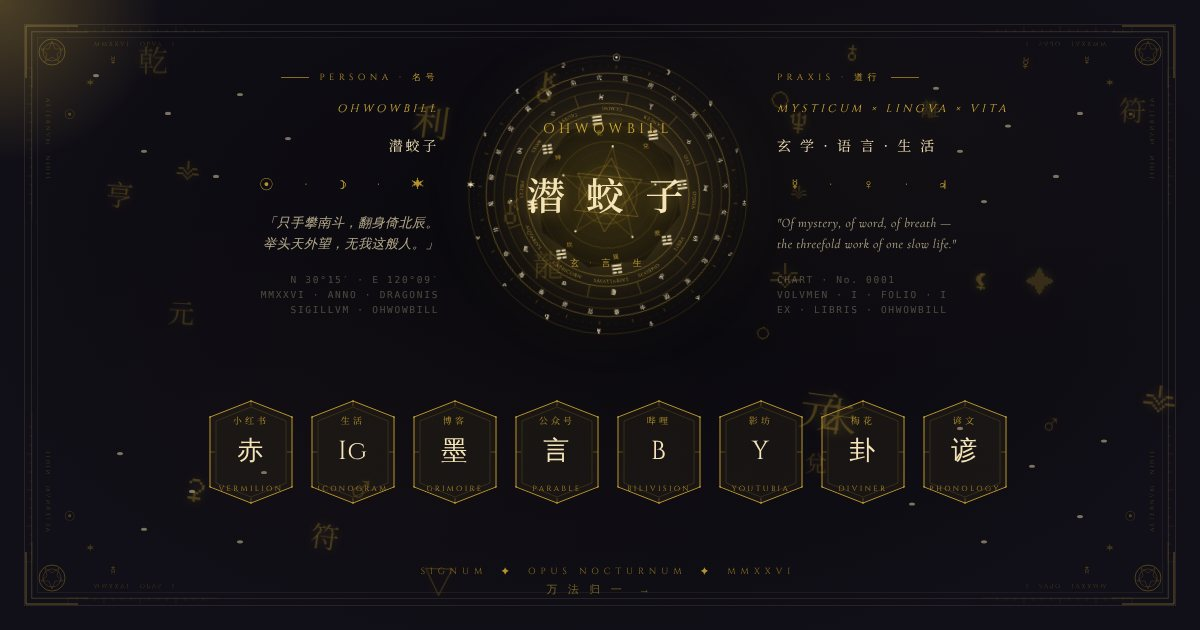
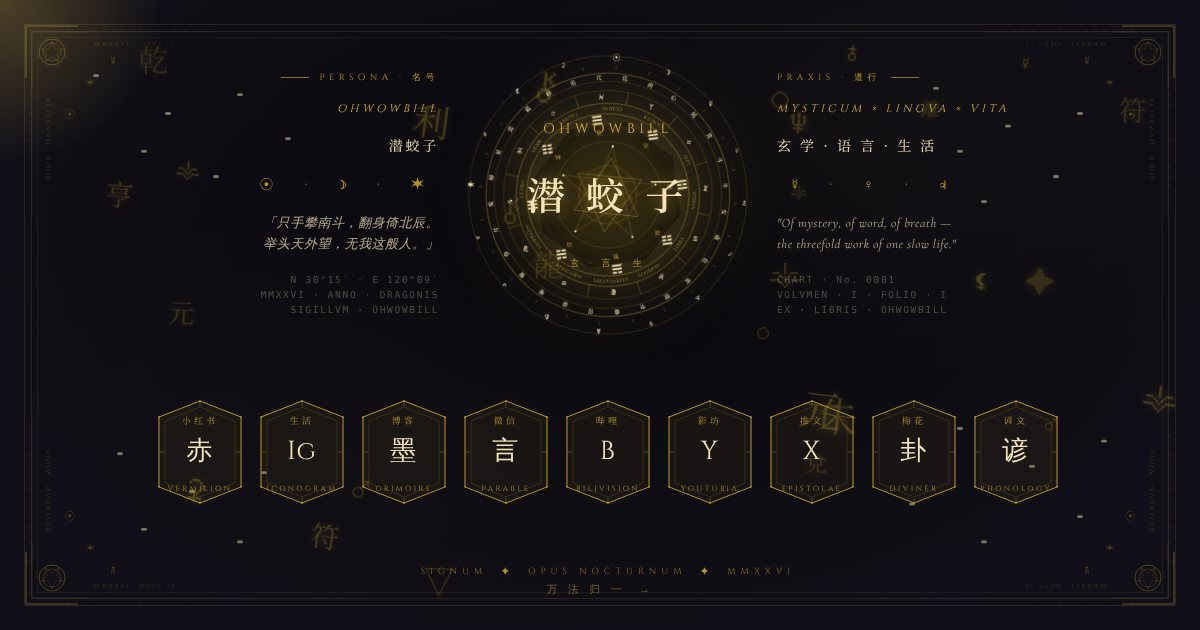
联系方式：公众号已停用，改为微信号 ohwowbill；加入 X @ohwowbill
- 阁主何人、去处页的公众号换成微信号，并加入 X
- 首页符牌「言」改为微信（点击复制微信号），新增 X 符牌；手机上九枚排成三行三列
- identity.toml 加入 X（rel="me" 与结构化数据）
- 分享图按九枚符牌重新截取

Claude-Session: https://claude.ai/code/session_0186ncGy53txMwA8Eb1yuNWk

Changed region(s): [[0.1233, 0.6333, 0.8942, 0.8143]]

diff --git a/assets/card/talismans.jsx b/assets/card/talismans.jsx
@@ -29,11 +29,11 @@ const TALISMANS = [
   },
   {
     key: "wx",
-    glyph: "言",        // 公众号 言
+    glyph: "言",        // 微信 言
     labelEn: "PARABLE",
-    labelZh: "公众号",
+    labelZh: "微信",
     href: "#wechat",
-    wechatName: "哦哇呜比尔",
+    wechatName: "ohwowbill",
     rune: "卍",
   },
   {
@@ -53,6 +53,15 @@ const TALISMANS = [
     href: "https://www.youtube.com/@ohwowbill",
     target: "_blank",
     rune: "▲",
+  },
+  {
+    key: "x",
+    glyph: "X",
+    labelEn: "EPISTOLAE",
+    labelZh: "推文",
+    href: "https://x.com/ohwowbill",
+    target: "_blank",
+    rune: "✧",
   },
   {
     key: "meihua",
@@ -124,7 +133,7 @@ const Talisman = ({ data }) => {
       target={data.target || undefined}
       rel={data.target === "_blank" ? "noopener noreferrer" : undefined}
       onClick={onClick}
-      title={isWechat ? `公众号：${data.wechatName}（点击复制）` : data.labelZh}
+      title={isWechat ? `微信号：${data.wechatName}（点击复制）` : data.labelZh}
     >
       <span className="frame"><TalismanFrame /></span>
       <span className="label-zh">{data.labelZh}</span>

diff --git a/static/card/styles.css b/static/card/styles.css
@@ -722,7 +722,7 @@ body::after {
   }
   .card { display: contents; }
   .card .center { order: 1; }
-  .talismans { order: 2; margin-top: 0; max-width: 360px; gap: 10px 8px; }
+  .talismans { order: 2; margin-top: 0; max-width: 260px; gap: 10px 8px; }
   .talisman { width: 76px; height: 94px; }
   .talisman .glyph { font-size: 23px; }
   .talisman .label-zh { top: 12px; }

diff --git a/content/links/index.md b/content/links/index.md
@@ -17,15 +17,9 @@ showEdit: false
 
 **方格子**
 
-散文、随笔、不成体系的碎念。比公众号更随意，比博客更轻盈。
+散文、随笔、不成体系的碎念，比博客更轻盈。
 
 [→ 前往方格子](https://vocus.cc/user/641709fffd89780001ddf405)
-
----
-
-**公众号「哦哇呜比尔」**
-
-不定期推送，比较正式时才用。微信内搜索「**哦哇呜比尔**」关注即可。
 
 ---
 
@@ -54,6 +48,18 @@ showEdit: false
 **Instagram · @ohwowbill**
 
 [→ 前往 Instagram](https://www.instagram.com/ohwowbill)
+
+---
+
+**X · @ohwowbill**
+
+[→ 前往 X](https://x.com/ohwowbill)
+
+---
+
+**微信 · ohwowbill**
+
+求问办事请加微信号 `ohwowbill`，注明来意。
 
 ---
 

diff --git a/content/about/index.md b/content/about/index.md
@@ -45,8 +45,9 @@ showEdit: false
 
 阁主接案。命理推算、占断择事、疑难杂事，皆可来问。
 
-- **微信**：搜公众号「哦哇呜比尔」，后台留言
+- **微信**：微信号 `ohwowbill`，加时请注明来意
 - **Instagram**：[@ohwowbill](https://www.instagram.com/ohwowbill) 私信
+- **X**：[@ohwowbill](https://x.com/ohwowbill) 私信
 
 来信请先言明所问何事；需排盘者，附上出生年月日时与出生地。缘至自有回音。
 
